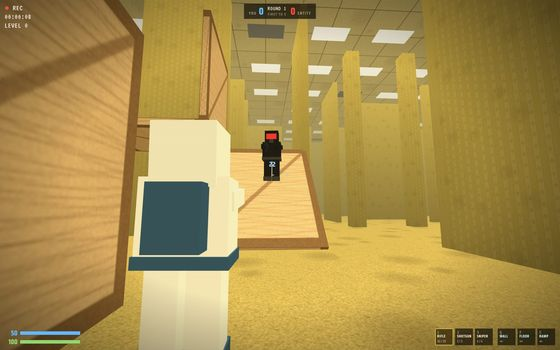
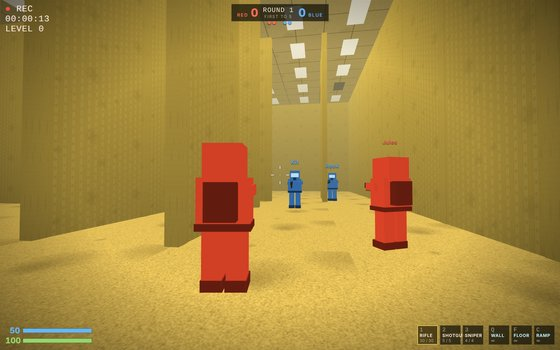
Parties: join games under the party name; new Backrooms phone thumbnail
- party.js: party launches now always put the member's party name in the
  game's name box (firing input and change), instead of only filling it
  when empty. Shell Crackers, Rumble Karts, Backrooms and Hail Mary pre-fill
  a saved or random name (Egg123, Driver123, Wanderer123, a random team), so
  party members used to show up under those names.
- Because the games save whatever is in their name box, party.js puts the
  game's previously saved name back in its localStorage key (new `nk` field
  in GAMES) right after joining, 3 and 15 s later and when the game closes,
  unless the player has typed another name since. Games with no saved name
  keep the party name.
- m/thumbs/backrooms-1v1.jpg: a 2v2 team match (Red vs Blue) in place of
  the old 1v1 practice scene.
- README: party entry describes the name rule; Chromaflage added to its
  list of supported games.

Claude-Session: https://claude.ai/code/session_01DfCR7RPoK1UNAvb7iRuPWn

diff --git a/e63334287a3deaa3/party.js b/e63334287a3deaa3/party.js
@@ -17,9 +17,11 @@
  * The leader is whoever has been in the party longest (smallest j), so when the leader leaves the next
  * person takes over with nothing to hand over. Closing the tab removes your node (onDisconnect).
  *
- * "Play together" writes go, and every member's browser opens that game with #<prefix>-<room>, then fills in
- * the game's room box and presses its own "Play in room" button for them (the game's menu ids are in GAMES).
- * To add a game: add a row to GAMES. If its menu uses other ids than name / room / joinRoom, give them in ids.
+ * "Play together" writes go, and every member's browser opens that game with #<prefix>-<room>, then puts the
+ * party name in the game's name box and the room in its room box, and presses its own "Play in room" button for
+ * them (the game's menu ids are in GAMES). The game's own saved name is put back afterwards (nk in GAMES).
+ * To add a game: add a row to GAMES. If its menu uses other ids than name / room / joinRoom, give them in ids,
+ * and give the localStorage key it saves its name under in nk.
  */
 (function () {
   'use strict';
@@ -39,21 +41,22 @@
 
   // Party-ready games. pre: what goes before the room code in the game's address (default k + '-').
   // max: most people one of its rooms holds. ids: the game's menu fields, if not name / room / joinRoom.
+  // nk: the localStorage key where the game saves its own name (Hail Mary's is a team name), put back after a party launch.
   var GAMES = [
-    { k: 'sc', n: 'Shell Crackers', d: 'shell-crackers', max: 8 },
-    { k: 'rk', n: 'Rumble Karts', d: 'rumble-karts', max: 8, pre: '', ids: { name: 'inName', room: 'inRoom', join: 'bOnline' } },
-    { k: 'kw', n: 'Kartwheel', d: 'kartwheel', max: 8 },
-    { k: 'ss', n: 'Slipstream', d: 'slipstream', max: 8 },
-    { k: 'bb', n: 'Boostball', d: 'boostball', max: 6, prep: function (doc, n) {
+    { k: 'sc', n: 'Shell Crackers', d: 'shell-crackers', max: 8, nk: 'shellcr-name' },
+    { k: 'rk', n: 'Rumble Karts', d: 'rumble-karts', max: 8, pre: '', nk: 'rk_name', ids: { name: 'inName', room: 'inRoom', join: 'bOnline' } },
+    { k: 'kw', n: 'Kartwheel', d: 'kartwheel', max: 8, nk: 'kw:name' },
+    { k: 'ss', n: 'Slipstream', d: 'slipstream', max: 8, nk: 'ss:name' },
+    { k: 'bb', n: 'Boostball', d: 'boostball', max: 6, nk: 'boostball-name', prep: function (doc, n) {
       // Room size comes from whoever opens the room first, so everyone picks the size that fits the party.
       var b = doc.querySelector('#sizeSeg [data-s="' + Math.min(3, Math.max(1, Math.ceil(n / 2))) + '"]'); if (b) b.click();
     } },
-    { k: 'cl', n: 'Coil', d: 'coil', max: 8 },
-    { k: 'sd', n: 'Showdown', d: 'showdown', max: 8 },
-    { k: 'qy', n: 'Quarry', d: 'quarry', max: 8 },
-    { k: 'br', n: 'Backrooms 1v1–4v4', d: 'backrooms-1v1', max: 8 },
-    { k: 'hm', n: 'Hail Mary', d: 'hail-mary', max: 2 },
-    { k: 'cf', n: 'Chromaflage', d: 'chromaflage', max: 8 }
+    { k: 'cl', n: 'Coil', d: 'coil', max: 8, nk: 'coil:name' },
+    { k: 'sd', n: 'Showdown', d: 'showdown', max: 8, nk: 'sd:name' },
+    { k: 'qy', n: 'Quarry', d: 'quarry', max: 8, nk: 'quarry:name' },
+    { k: 'br', n: 'Backrooms 1v1–4v4', d: 'backrooms-1v1', max: 8, nk: 'br1v1-name' },
+    { k: 'hm', n: 'Hail Mary', d: 'hail-mary', max: 2, nk: 'hm:team' },
+    { k: 'cf', n: 'Chromaflage', d: 'chromaflage', max: 8, nk: 'chroma-name' }
   ];
   var COLORS = ['#1D6A4B', '#C0562F', '#3E5BA9', '#9A3F8F', '#B07A12', '#2A8A8A', '#B42318', '#5B6B2E'];
 
@@ -356,11 +359,24 @@
       var d; try { d = fr.contentDocument; } catch (e) { return; }
       var btn = d && d.getElementById(ids.join), room = d && d.getElementById(ids.room);
       if (!btn || !room || btn.disabled) { if (++tries < 60) setTimeout(tick, 250); return; }
-      var nm = d.getElementById(ids.name);
-      if (nm && !nm.value.trim()) { nm.value = myName(); fire(nm, 'input'); fire(nm, 'change'); }
+      // Party launches always play under the party name, even over a name the game saved or made up
+      // (Egg123, Driver123, Wanderer123, a random Hail Mary team), so the party sees the names it knows.
+      var nm = d.getElementById(ids.name), before = g.nk ? store(g.nk) : null, set = '';
+      if (nm) { nm.value = set = myName().slice(0, nm.maxLength > 0 ? nm.maxLength : 14); fire(nm, 'input'); fire(nm, 'change'); }
       room.value = r; fire(room, 'input');
       if (g.prep) try { g.prep(d, n); } catch (e) {}
       btn.click();
+      // The game saves whatever is in its name box, so give it back the name it had saved before (if it had one):
+      // now, once its join has gone through, and when the game closes, unless the player has typed another since.
+      if (set && before != null) {
+        var put = function () {
+          var cur = store(g.nk); if (cur == null || cur === before) return;
+          try { if (cur.charAt(0) === '"') cur = JSON.parse(cur); } catch (e) {}
+          if (cleanName(cur) === cleanName(set)) store(g.nk, before);
+        };
+        put(); setTimeout(put, 3000); setTimeout(put, 15000);
+        try { fr.contentWindow.addEventListener('pagehide', put); } catch (e) {}
+      }
     }
     fr.addEventListener('load', function () { setTimeout(tick, 200); }, { once: true });
   }

diff --git a/README.md b/README.md
@@ -16,7 +16,7 @@ Personal site hosted with GitHub Pages.
 - `e63334287a3deaa3/chromaflage/`: Chromaflage (Back Room), paint-yourself hide and seek for up to 8 players (Three.js, Firebase Realtime Database rooms under `rooms/cf-…`, same project and rules as Rumble Karts; Quick match uses `rooms/cf-pub-1` to `cf-pub-4`; invite links go through the home page as `#cf-<code>`). Hiders paint their own bodies in a paint studio (brush, an eyedropper that reads the true colour of whatever surface you click, fill, undo, glossiness) and pose to hide; seekers tag them with a blaster whose misses cost ink. Modes: Classic and Infection. Like Showdown, everything travels through each player's own node at `rooms/cf-<code>/players/<uid>`, because the shared rules expect `n, c, x, z, h, ts` there and refuse other paths (such as `events`) for new prefixes: position and pose (`y, po, fl, p`), body (`s` shape, `sz` size, `rf` glossiness), paint (`pv` version and `pd`, the 256 × 256 body texture as a WebP data URL, or JPEG where the browser can't make WebP; about 1 KB for a plain colour and 10–20 KB for a detailed pattern, re-sent at most every 1.2 s and only when it changed, so late joiners read it straight from the node), the last shot (`sh`), squeak (`ta`) and tag claim (`tg`). The host (newest host number `he`, else whoever has been in the room longest) publishes the round as JSON in its own `rs` and checks tag claims loosely; if it leaves, the next player carries on from the last round it saw. Each body shape has a texture atlas where every texel knows its 3D spot on the body, so brushes paint by distance in 3D (`atlasOf`, `Paint`). Maps are axis-aligned boxes built by `buildFlat` and `buildBazaar` with the `Builder` helpers (`box`, `at` for turned furniture, `prop` for round things); the boxes are also the colliders, the bots' navigation grid and the surfaces the eyedropper and bots sample, and every pattern is drawn on a canvas by the `P` painters, from a fixed seed so all players get the same map. To add a map, write a `build…` function and add it to `MAPS`. The practice seeker bot "sees" by rendering a small view of you with and without you and comparing the colours (`perceive`, delta E), so better paint really does keep you hidden. Nothing is stored online between rounds; your name, body, last paint job and settings are saved in the browser under `chroma-…`. Parties can launch it (its row in `GAMES` in `party.js`). On touch screens the page adds `touch` to `body`, and the `body.touch` rules at the end of the stylesheet place the HUD, the lobby card and the paint studio for phones held upright or sideways (keep them clear of the stick and buttons when adding HUD pieces). The lobby card and the paint studio scroll an inner box (`.lb-body`, `.st-body`) instead of the card itself, because Chrome can leave a blank patch in the 3D view under a scrolling box with a solid background.
 - `e63334287a3deaa3/backrooms-1v1/`: Backrooms 1v1–4v4 (Back Room; the folder keeps its original `backrooms-1v1` name), a third-person build-fight shooter in Level 0 of the Backrooms (Three.js). Practice is you against the Entity, a bot that runs only in your browser. Online rooms hold up to 8 players split into Red and Blue (1v1 to 4v4, uneven teams like 4v3 are allowed and never filled with bots) in the Firebase Realtime Database under `rooms/br-…` (same project and rules as Rumble Karts; invite links go through the home page as `#br-<code>`). Quick match waits in `rooms/br-queue/players` and pairs two people into a `br-q…` room for a 1v1. Each player writes only their own node `players/<uid>`: `n`, `c`, `x`, `z`, `h` and `ts` always (the shared rules expect that shape), plus height, pitch, health, shield, weapon, a dead flag, the match `m` and round `rd` the position belongs to, the team picked in the lobby `t`, kills this match `k` and join time `j`; about 20 times a second during a round (15 in rooms of 5 or more) and twice a second otherwise. The host is the live player who has been in the room longest (the next in line takes over when they leave; a newcomer only starts judging who the host is once the room's players and round have loaded, so a slow phone joining mid-match can't take over and reset it) and is the only one who changes `round`: `{id, ends, seed, ns, ph, pt, to, rn, sr, sb, ro, dd, rw, mw, fm, rz}`, where `id` is the match, `ph` the phase (`lobby`, `cd` countdown, `fight`, `over`, `end`), `pt` when the phase ends, `to` the rounds to win (3, 5 or 10, host's choice), `rn` the round, `sr`/`sb` the team scores, `ro` the roster (`uid:r;uid:b`), `dd` who is out this round, `rw`/`mw` the round and match winners, `fm` a forfeit, and `rz` the host's "Randomize teams" draw (each player then moves themself). The host writes with transactions guarded on `id`, `ph` and `rn`, and keeps `ends` at the time of writing because the rules cap how far ahead it can be. Shots, builds and deaths go through `events/<push>` (deleted after 5 s): the shooter's rays pass through teammates and the shot lists only the enemies it hit; the victim applies damage only from someone on the other team of the same match, and reports its own death naming the last shooter, which gives the kill credit. A round ends when one team has nobody left: dead, or silent for 10 s (a closed tab removes its node at once). A team with nobody left in the room (disconnected, or silent for 20 s) forfeits the match. A host whose own tab has just frozen waits a moment for the queued updates before judging anyone. Players who join mid-match wait in the lobby or watch until the next one, and dead players watch a living teammate (click, or tap Next on a touch screen, for the next one). The maze is 12 × 12 cells of 4 m, 14 for 5–6 players and 16 for 7–8; Red spawns along the west edge and Blue along the east, each spawn in a cleared 3 × 3 area. On touch screens it has a move stick, drag-to-look, Fire/Place, Jump, Aim, Reload and pause buttons, with the weapon and build slots as buttons along the top; while you watch, those give way to a Next button, and the lobby, pause and results screens are plain buttons that fit a phone either way up. Each browser is trusted for its own health and hits, so it isn't cheat-proof. A test hook (`window.__br`) exists only when `navigator.webdriver` is set.
 - `e63334287a3deaa3/slipstream/`: Slipstream (Back Room), a 3D open-wheel racer with a 22-car grid (Three.js, Firebase Realtime Database rooms under `rooms/ss-…`, same project and rules as Rumble Karts; invite links go through the home page as `#ss-<code>`). Bots fill every free seat; the host's browser drives them. Bot skill (`DIFF`: Easy, Normal, Hard; online races use Hard) scales corner speed, and the bots' braking, boost and lines are tuned by the `AI` constants; Hard runs close to a near-ideal lap. Track limits: going off costs nothing but time (a small "Return to the track" hint shows while off), and cutting a corner to gain time adds 1 s to the race time; each car's total penalty seconds travel online in `pn`. Nothing else is saved: settings (name, last room, seat, track, laps, difficulty, camera, mute) stay in the browser under `ss:` keys. In automated browsers only (`navigator.webdriver`), `window.__ss` exposes the race code so a test can run bots-only races and time laps.
-- `e63334287a3deaa3/party.js`: Parties (Back Room). A Party panel above the games: create a party (5-character code) or join one, up to 8 people; the person who has been in it longest is the leader, picks a multiplayer game and presses Play together, and every member's browser opens that game in a new room (`#<prefix>-p<6 random characters>`) and joins it. Back returns everyone to the party. Party invite links are `/#pt-<code>`: the home page holds them until the Back Room code is entered, then joins the party instead of opening a game. Works on the phone version too (`m/index.html` loads `party.js`, lends it its `openGame`, and sends `#pt-` invites to the party instead of Rumble Karts), and both after the home-page reveal (the home page's `reveal()` loads `party.js` from the Back Room folder and lends it `openGame` through `window.BackRoom`) and on the Back Room page opened directly (a `<script>` tag; games then open in party.js's own layer). Storage: Firebase Realtime Database, same project and rules as Rumble Karts, at `rooms/pt-<code>/players/<uid>`. The rules only let a browser write its own node and require the same fields the games write (`n`, `c`, `x`, `z`, `h`, `ts`; `x`/`z`/`h` are always 0), so the party keeps everything there: `j` (join time, which decides the leader), `pk` (game the leader picked) and `go` (the leader's latest launch: game, room, time). Nodes are removed on disconnect and ignored after 2 minutes without a heartbeat. Supported games: Shell Crackers, Rumble Karts, Kartwheel, Slipstream, Boostball (6 max), Coil, Showdown, Quarry, Backrooms 1v1–4v4, and Hail Mary (2 max; switched off for bigger parties). Trivium isn't supported (its contests get their code from the host's screen). party.js joins the game for each member by filling in the game's room box and pressing its own Play in room button (`#room` / `#joinRoom`, and `#name` only if empty), so the games themselves weren't changed: keep those ids if you rework a game's menu. To add a game, add a row to `GAMES` in party.js (prefix, folder, room size, and `ids` if its menu uses other ids).
+- `e63334287a3deaa3/party.js`: Parties (Back Room). A Party panel above the games: create a party (5-character code) or join one, up to 8 people; the person who has been in it longest is the leader, picks a multiplayer game and presses Play together, and every member's browser opens that game in a new room (`#<prefix>-p<6 random characters>`) and joins it. Back returns everyone to the party. Party invite links are `/#pt-<code>`: the home page holds them until the Back Room code is entered, then joins the party instead of opening a game. Works on the phone version too (`m/index.html` loads `party.js`, lends it its `openGame`, and sends `#pt-` invites to the party instead of Rumble Karts), and both after the home-page reveal (the home page's `reveal()` loads `party.js` from the Back Room folder and lends it `openGame` through `window.BackRoom`) and on the Back Room page opened directly (a `<script>` tag; games then open in party.js's own layer). Storage: Firebase Realtime Database, same project and rules as Rumble Karts, at `rooms/pt-<code>/players/<uid>`. The rules only let a browser write its own node and require the same fields the games write (`n`, `c`, `x`, `z`, `h`, `ts`; `x`/`z`/`h` are always 0), so the party keeps everything there: `j` (join time, which decides the leader), `pk` (game the leader picked) and `go` (the leader's latest launch: game, room, time). Nodes are removed on disconnect and ignored after 2 minutes without a heartbeat. Supported games: Shell Crackers, Rumble Karts, Kartwheel, Slipstream, Boostball (6 max), Coil, Showdown, Quarry, Backrooms 1v1–4v4, Hail Mary (2 max; switched off for bigger parties) and Chromaflage. Trivium isn't supported (its contests get their code from the host's screen). party.js joins the game for each member by filling in the game's name and room boxes and pressing its own Play in room button (`#name` / `#room` / `#joinRoom`), so the games themselves weren't changed: keep those ids if you rework a game's menu. Party launches always use the member's party name, even over a name the game had saved or made up (Shell Crackers' Egg123, Rumble Karts' Driver123, Backrooms' Wanderer123, Hail Mary's random team), so everyone shows up under the name the party knows them by. Because the games save whatever is in their name box, party.js then puts the game's previously saved name back in its localStorage key (right after joining, again 3 and 15 seconds later, and when the game closes), unless the player has typed a different name since; a game that had no saved name keeps the party name. To add a game, add a row to `GAMES` in party.js (prefix, folder, room size, `nk` for the localStorage key the game saves its name under, and `ids` if its menu uses other ids).
 - `e63334287a3deaa3/keybinds.js`: rebindable controls shared by the keyboard Back Room games (Boostball, Coil, Hail Mary, Kartwheel, Quarry, Rumble Karts, Shell Crackers, Slipstream, Starhop). Plain JavaScript, no dependencies. Each game loads it with `<script src="../keybinds.js"></script>`, lists its actions in `Keybinds.create({game, actions: [{id, label, keys: ['KeyW', 'ArrowUp']}]})` (keys are `e.code` names, so they're physical keys on any layout; mouse buttons are `Mouse0`/`Mouse1`/`Mouse2` in games that pass `mouse: true`), checks input with `KB.is(action, e.code)` and `KB.held(action, keys)` instead of comparing key codes, and opens the panel from a Controls button with `KB.open()`. Changed keys are saved only in the player's browser, under localStorage `keybinds:<game>` as `{v: 1, b: {action: [codes]}}` (only the actions that differ from the defaults; Reset to defaults removes the entry), and never go to Firebase. Esc is never rebindable. Elements with `data-kb="action"` show the current keys and update themselves. The panel takes each game's look from `--kb-*` CSS variables and the game's own button classes; the comment at the top of the file lists the options. To add it to a game, do the same, and keep text inputs (names, room codes, chat) returning before any key lookup. Touch controls don't go through key codes: each game's touch buttons feed its input directly (in Shell Crackers and Quarry they hold actions by id in `tAct`, which the game checks alongside `KB.held`), so they keep working whatever keys are bound, and the Change keys / Controls buttons are hidden in the touch layout (`body.touch`).
 - `joukowsky-dynamics/`: only `preview.jpg` (used by the Engineering cards) and a redirect page. The Joukowsky Dynamics workbench itself is hosted, password protected, on the [Joukowsky-Dynamics](https://github.com/ASCoding11/Joukowsky-Dynamics) repo's own GitHub Pages site, https://ascoding11.github.io/Joukowsky-Dynamics/, and the cards link there. Don't put an unprotected copy back in this repo, or it would bypass the password.
 - `docket/`: Docket, a study planner for Canvas students (plain JavaScript, no backend; everything is saved in the student's browser). It imports assignments three ways: a bookmarklet that reads the Canvas API from the student's logged-in Canvas tab and hands the data to Docket in the URL hash (its source is the `bmSrc` block in the page), the Canvas calendar feed / any `.ics` or Google Calendar `.zip` export, or pasted text from a Canvas assignments page. It estimates time and difficulty per assignment, then schedules study sessions around calendar events and the student's activities. No ads on this page.
